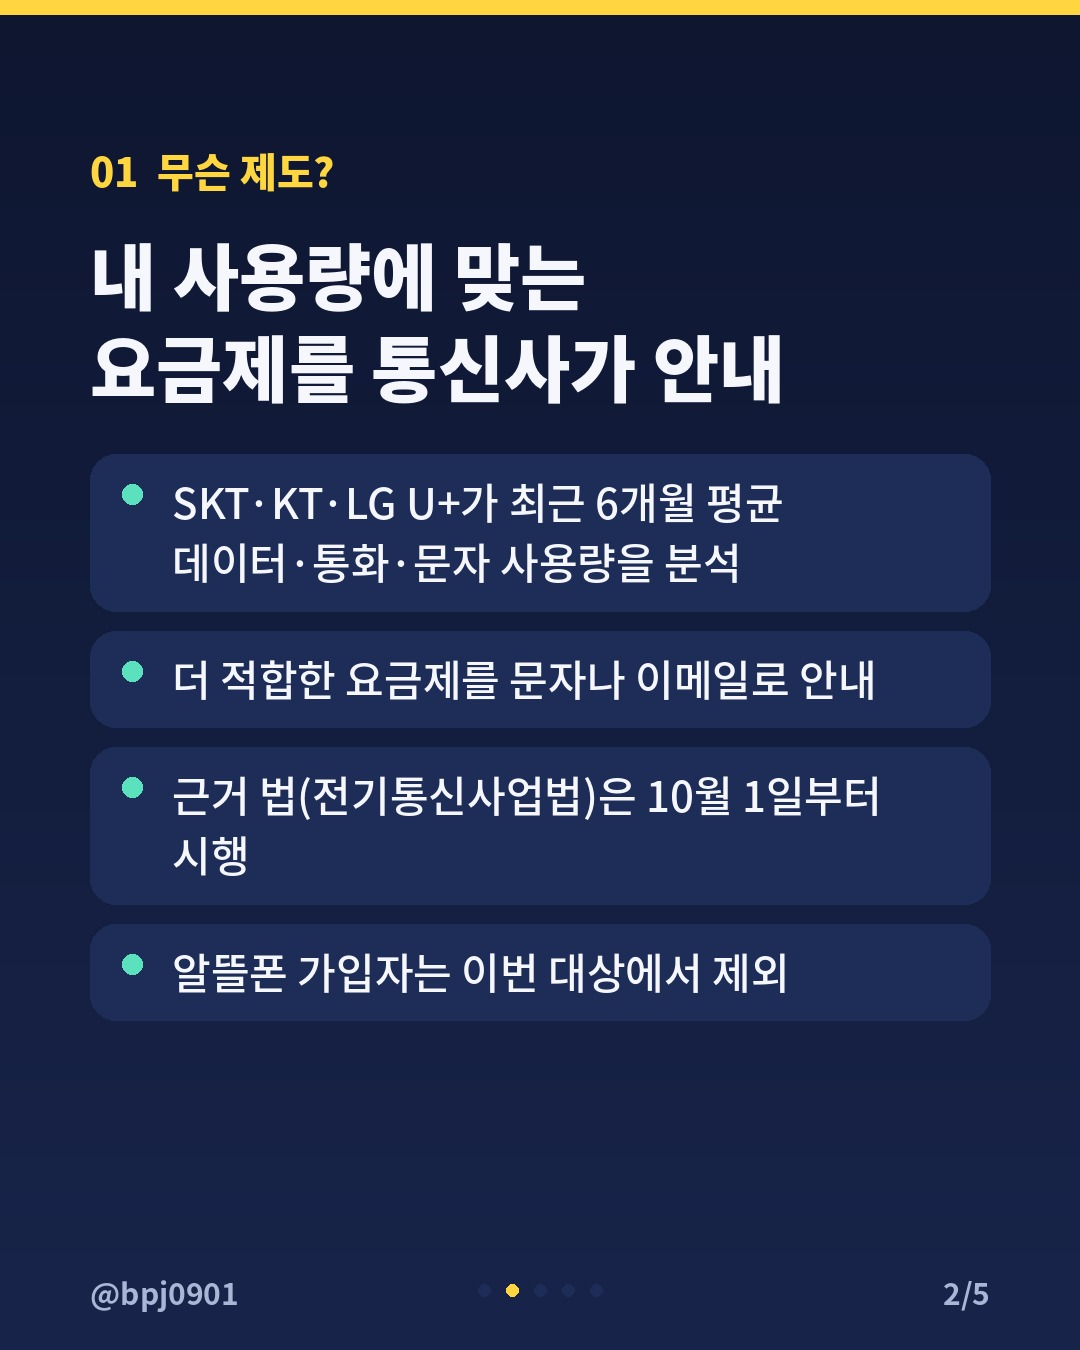
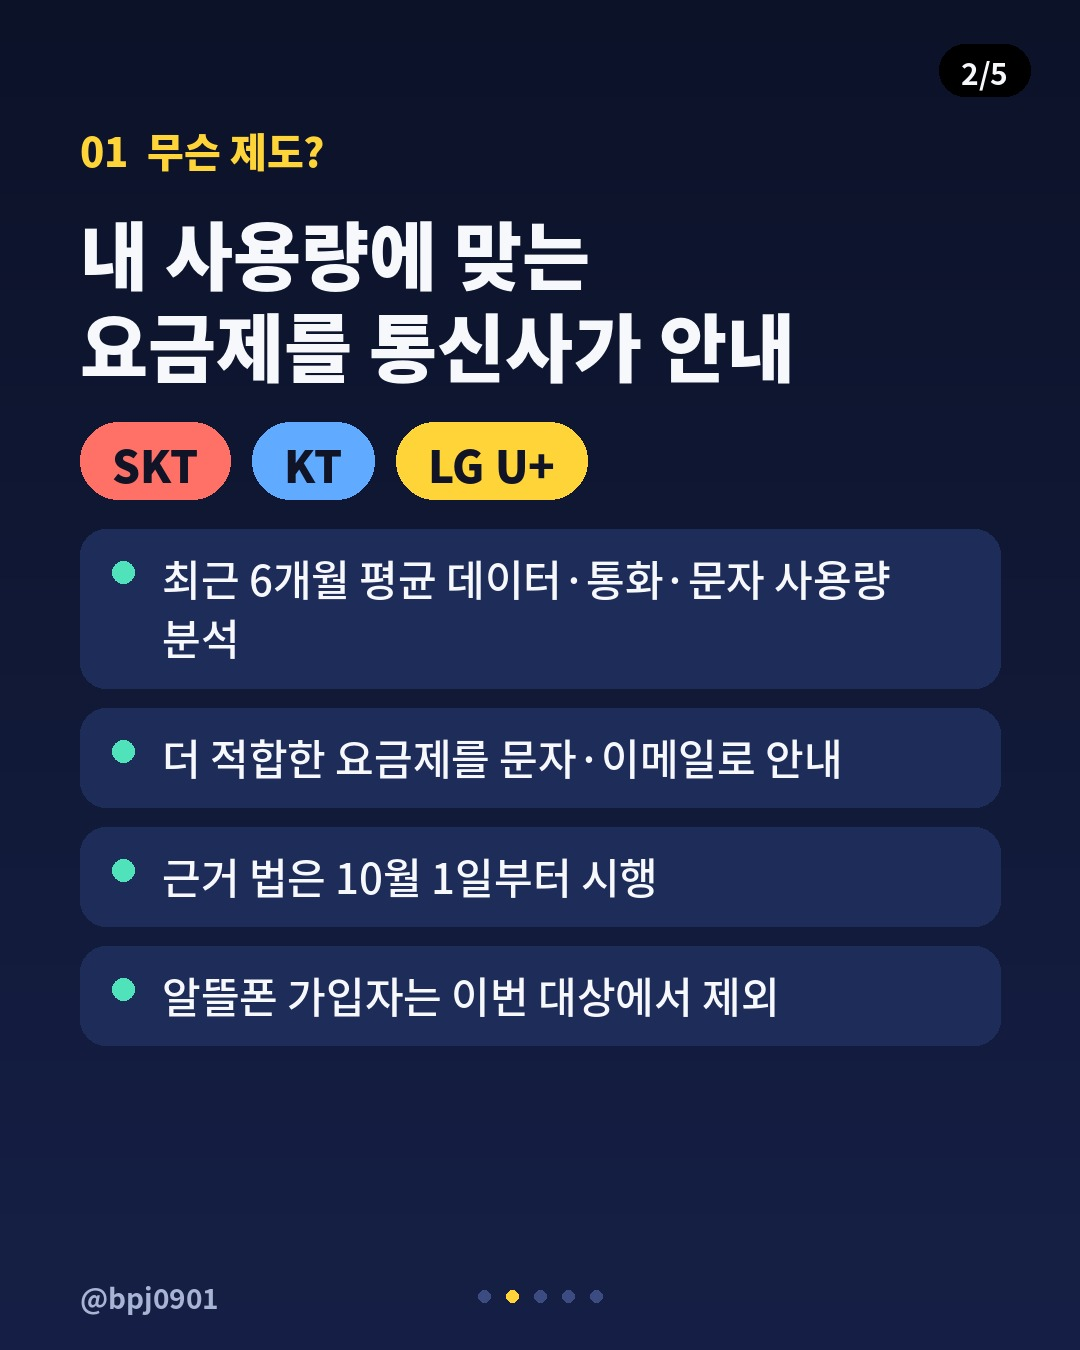
카드뉴스 디자인 개선: 표지 일러스트, 통신사 배지, 페이지 번호
Claude-Session: https://claude.ai/code/session_01VQQ9ZYNrZeGaHthLbSRM4d

diff --git a/tools/render.py b/tools/render.py
@@ -1,144 +1,279 @@
-"""카드뉴스 렌더러: content.json -> 1080x1350 JPG 여러 장.
+"""카드뉴스 렌더러 v2: content.json -> 1080x1350 JPG.
 사용법: python render.py content.json out_dir
+
+슬라이드 type:
+  cover     : 상단 일러스트(휴대폰+문자) + 하단 태그·큰 제목
+  list      : 라벨·제목 + 항목 카드 (badges 있으면 통신사 배지 줄 추가)
+  timeline  : 라벨·제목 + 세로 타임라인 (steps: [[날짜, 설명], ...])
+  compare   : 라벨·제목 + 전후 금액 비교 (before/after/save)
+  checklist : 라벨·제목 + 체크 항목
 """
 import json, sys, os
-from PIL import Image, ImageDraw, ImageFont
+from PIL import Image, ImageDraw, ImageFont, ImageFilter
 
 W, H = 1080, 1350
-M = 90  # 좌우 여백
+M = 80
 FD = "/usr/share/fonts/opentype/noto/"
-
 C = {
-    "bg": (14, 22, 48), "bg2": (24, 36, 74), "text": (245, 247, 252),
-    "sub": (170, 182, 214), "accent": (255, 214, 64), "accent2": (92, 225, 190),
-    "card": (30, 44, 88), "warn": (255, 120, 110),
+    "bg": (12, 18, 40), "bg2": (22, 32, 70), "text": (246, 248, 252), "sub": (168, 180, 212),
+    "accent": (255, 212, 56), "mint": (80, 226, 186), "coral": (255, 112, 102), "sky": (96, 170, 255),
+    "card": (30, 44, 90), "tagred": (232, 52, 60),
 }
+BADGE_COLORS = [C["coral"], C["sky"], C["accent"]]
 
 
 def font(weight, size):
     files = {"black": "NotoSansCJK-Black.ttc", "bold": "NotoSansCJK-Bold.ttc",
              "medium": "NotoSansCJK-Medium.ttc", "regular": "NotoSansCJK-Regular.ttc"}
-    path = FD + files[weight]
     for i in range(6):
-        f = ImageFont.truetype(path, size, index=i)
+        f = ImageFont.truetype(FD + files[weight], size, index=i)
         if "KR" in f.getname()[0]:
             return f
-    return ImageFont.truetype(path, size)
+    return ImageFont.truetype(FD + files[weight], size)
 
 
-def wrap(draw, text, f, maxw):
-    lines = []
+def wrap(d, text, f, maxw):
+    out = []
     for para in text.split("\n"):
         line = ""
-        for word in para.split(" "):
-            test = (line + " " + word).strip()
-            if draw.textlength(test, font=f) <= maxw:
-                line = test
+        for w in para.split(" "):
+            t = (line + " " + w).strip()
+            if d.textlength(t, font=f) <= maxw:
+                line = t
             else:
                 if line:
-                    lines.append(line)
-                # 단어 하나가 너무 길면 글자 단위로 자름
-                while draw.textlength(word, font=f) > maxw:
-                    cut = len(word)
-                    while draw.textlength(word[:cut], font=f) > maxw:
-                        cut -= 1
-                    lines.append(word[:cut]); word = word[cut:]
-                line = word
-        lines.append(line)
-    return lines
+                    out.append(line)
+                line = w
+        out.append(line)
+    return out
 
 
-def text_block(draw, xy, text, f, fill, maxw, gap=1.35):
-    x, y = xy
-    for ln in wrap(draw, text, f, maxw):
-        draw.text((x, y), ln, font=f, fill=fill)
+def text_block(d, x, y, text, f, fill, maxw, gap=1.3):
+    for ln in wrap(d, text, f, maxw):
+        d.text((x, y), ln, font=f, fill=fill)
         y += int(f.size * gap)
     return y
 
 
-def base(i, n, brand):
-    img = Image.new("RGB", (W, H), C["bg"])
+def gradient(img, top, bottom, y0=0, y1=H):
     d = ImageDraw.Draw(img)
-    # 은은한 세로 그라데이션
-    for yy in range(H):
-        t = yy / H
-        col = tuple(int(C["bg"][k] * (1 - t) + C["bg2"][k] * t) for k in range(3))
-        d.line([(0, yy), (W, yy)], fill=col)
-    # 상단 바
-    d.rectangle([0, 0, W, 14], fill=C["accent"])
-    # 하단: 브랜드 + 페이지
-    fb = font("bold", 30)
-    d.text((M, H - 80), brand, font=fb, fill=C["sub"])
-    pg = f"{i}/{n}"
-    d.text((W - M - d.textlength(pg, font=fb), H - 80), pg, font=fb, fill=C["sub"])
-    # 페이지 점
-    for k in range(n):
-        cx = W // 2 - (n - 1) * 14 + k * 28
-        d.ellipse([cx - 6, H - 66, cx + 6, H - 54], fill=C["accent"] if k == i - 1 else C["card"])
+    for y in range(y0, y1):
+        t = (y - y0) / max(1, y1 - y0)
+        d.line([(0, y), (W, y)], fill=tuple(int(top[k] * (1 - t) + bottom[k] * t) for k in range(3)))
+
+
+def glow(img, cx, cy, r, color, alpha=120):
+    layer = Image.new("RGBA", img.size, (0, 0, 0, 0))
+    ImageDraw.Draw(layer).ellipse([cx - r, cy - r, cx + r, cy + r], fill=color + (alpha,))
+    layer = layer.filter(ImageFilter.GaussianBlur(r // 2))
+    img.paste(layer, (0, 0), layer)
+
+
+def pill(d, x, y, text, f, bg, fg, padx=26, h=None, anchor_right=False):
+    tw = d.textlength(text, font=f)
+    h = h or int(f.size * 1.75)
+    w = tw + padx * 2
+    if anchor_right:
+        x = x - w
+    d.rounded_rectangle([x, y, x + w, y + h], h // 2, fill=bg)
+    d.text((x + padx, y + (h - f.size) / 2 - f.size * 0.18), text, font=f, fill=fg)
+    return x + w
+
+
+def frame(i, n, brand):
+    img = Image.new("RGB", (W, H))
+    gradient(img, C["bg"], C["bg2"])
+    d = ImageDraw.Draw(img)
+    # 페이지 표시 (참고 이미지처럼 우측 상단 둥근 배지)
+    pill(d, W - 50, 44, f"{i}/{n}", font("bold", 30), (0, 0, 0), C["text"], padx=22, anchor_right=True)
+    footer(d, i, n, brand)
     return img, d
 
 
+def footer(d, i, n, brand):
+    d.text((M, H - 74), brand, font=font("bold", 28), fill=C["sub"])
+    for k in range(n):
+        cx = W // 2 - (n - 1) * 14 + k * 28
+        d.ellipse([cx - 6, H - 60, cx + 6, H - 48], fill=C["accent"] if k == i - 1 else (60, 76, 130))
+
+
+def header(d, s, y=120):
+    d.text((M, y), s.get("label", ""), font=font("black", 40), fill=C["accent"])
+    return text_block(d, M, y + 78, s["title"], font("black", 74), C["text"], W - 2 * M, 1.25) + 40
+
+
+def draw_phone(img, cx, top, s):
+    """원본 일러스트: 휴대폰 화면 속 통신사 안내 문자."""
+    d = ImageDraw.Draw(img)
+    pw, ph = 430, 640
+    x0, y0 = cx - pw // 2, top
+    glow(img, cx, top + ph // 2, 330, C["sky"], 90)
+    glow(img, cx + 160, top + 140, 180, C["accent"], 70)
+    d = ImageDraw.Draw(img)
+    d.rounded_rectangle([x0, y0, x0 + pw, y0 + ph], 64, fill=(8, 10, 20))
+    d.rounded_rectangle([x0 + 14, y0 + 14, x0 + pw - 14, y0 + ph - 14], 52, fill=(236, 240, 248))
+    d.rounded_rectangle([cx - 60, y0 + 30, cx + 60, y0 + 62], 16, fill=(8, 10, 20))  # 카메라 섬
+    # 메시지 앱 상단
+    d.text((x0 + 50, y0 + 96), "‹  통신사 고객센터", font=font("bold", 30), fill=(40, 48, 70))
+    d.line([(x0 + 30, y0 + 150), (x0 + pw - 30, y0 + 150)], fill=(205, 212, 226), width=2)
+    # 말풍선
+    bx0, by0 = x0 + 40, y0 + 185
+    d.rounded_rectangle([bx0, by0, x0 + pw - 50, by0 + 250], 34, fill=(255, 255, 255))
+    d.text((bx0 + 28, by0 + 26), "[요금제 안내]", font=font("black", 30), fill=C["tagred"])
+    text_block(d, bx0 + 28, by0 + 76, s.get("sms", ""), font("medium", 27), (40, 48, 70), pw - 150, 1.4)
+    # 절약 강조 말풍선
+    sx0, sy0 = x0 + 70, by0 + 280
+    d.rounded_rectangle([sx0, sy0, x0 + pw - 40, sy0 + 120], 34, fill=C["accent"])
+    d.text((sx0 + 30, sy0 + 22), s.get("save_bubble", ""), font=font("black", 48), fill=(20, 24, 40))
+
+
+def badges_row(d, x, y, names, size=44, center=False):
+    f = font("black", size)
+    widths = [d.textlength(nm, font=f) + 64 for nm in names]
+    total = sum(widths) + 22 * (len(names) - 1)
+    if center:
+        x = (W - total) // 2
+    for nm, col in zip(names, BADGE_COLORS):
+        x = pill(d, x, y, nm, f, col, (16, 20, 38), padx=32) + 22
+    return y + int(size * 1.75)
+
+
 def render_cover(s, i, n, brand):
-    img, d = base(i, n, brand)
+    img, d = frame(i, n, brand)
+    draw_phone(img, W // 2 + 150, 150, s)
+    d = ImageDraw.Draw(img)
+    # 왼쪽 위 통신사 배지 세로 배치
+    f = font("black", 44)
     y = 230
-    tag = s.get("tag", "")
-    if tag:
-        ft = font("bold", 36)
-        tw = d.textlength(tag, font=ft)
-        d.rounded_rectangle([M, y, M + tw + 48, y + 66], 33, fill=C["accent"])
-        d.text((M + 24, y + 9), tag, font=ft, fill=C["bg"])
-        y += 120
-    y = text_block(d, (M, y), s["title"], font("black", 92), C["text"], W - 2 * M, 1.25)
-    y += 40
-    d.rectangle([M, y, M + 120, y + 10], fill=C["accent"])
-    y += 60
-    text_block(d, (M, y), s.get("subtitle", ""), font("medium", 44), C["sub"], W - 2 * M, 1.45)
-    if s.get("footer"):
-        text_block(d, (M, H - 230), s["footer"], font("bold", 38), C["accent2"], W - 2 * M)
+    for nm, col in zip(s.get("badges", []), BADGE_COLORS):
+        pill(d, M, y, nm, f, col, (16, 20, 38), padx=34)
+        y += 104
+    # 하단 어둡게 (제목 가독성)
+    shade = Image.new("RGBA", (W, H), (0, 0, 0, 0))
+    sd = ImageDraw.Draw(shade)
+    for yy in range(760, H):
+        a = min(235, int((yy - 760) / 200 * 235))
+        sd.line([(0, yy), (W, yy)], fill=C["bg"] + (a,))
+    img.paste(shade, (0, 0), shade)
+    d = ImageDraw.Draw(img)
+    # 태그 (참고 이미지의 빨간 태그 + 카테고리)
+    ty = 880
+    nx = pill(d, M, ty, s.get("tag", "이슈"), font("black", 32), C["tagred"], (255, 255, 255), padx=20)
+    d.text((nx + 16, ty + 9), s.get("tag2", ""), font=font("bold", 32), fill=C["text"])
+    text_block(d, M, ty + 84, s["title"], font("black", 86), C["text"], W - 2 * M, 1.22)
+    footer(d, i, n, brand)
     return img
 
 
-def render_body(s, i, n, brand):
-    img, d = base(i, n, brand)
-    y = 140
-    fn = font("black", 40)
-    d.text((M, y), s.get("label", f"POINT {i-1}"), font=fn, fill=C["accent"])
-    y += 80
-    y = text_block(d, (M, y), s["title"], font("black", 72), C["text"], W - 2 * M, 1.28)
-    y += 50
-    fbody = font("medium", 42)
-    fbold = font("bold", 42)
-    for item in s.get("items", []):
-        # 카드 박스
-        lines = wrap(d, item, fbody, W - 2 * M - 110)
-        h = int(len(lines) * 42 * 1.45) + 36
-        if y + h > H - 200:
-            raise SystemExit(f'slide {i}: 항목이 공간을 넘침 -> 내용 줄이기')
+def render_list(s, i, n, brand):
+    img, d = frame(i, n, brand)
+    y = header(d, s)
+    if s.get("badges"):
+        y = badges_row(d, M, y, s["badges"]) + 30
+    fb = font("medium", 42)
+    for item in s["items"]:
+        lines = wrap(d, item, fb, W - 2 * M - 110)
+        h = int(len(lines) * 42 * 1.42) + 40
+        if y + h > H - 150:
+            raise SystemExit(f"{i}번 카드: 내용이 넘칩니다")
         d.rounded_rectangle([M, y, W - M, y + h], 26, fill=C["card"])
-        d.ellipse([M + 32, y + 30, M + 52, y + 50], fill=C["accent2"])
+        d.ellipse([M + 32, y + 32, M + 54, y + 54], fill=C["mint"])
+        yy = y + 18
+        for ln in lines:
+            d.text((M + 82, yy), ln, font=fb, fill=C["text"])
+            yy += int(42 * 1.42)
+        y += h + 20
+    if s.get("note"):
+        text_block(d, M, H - 170, s["note"], font("regular", 28), C["sub"], W - 2 * M)
+    return img
+
+
+def render_timeline(s, i, n, brand):
+    img, d = frame(i, n, brand)
+    y = header(d, s) + 10
+    x = M + 30
+    steps = s["steps"]
+    gap = 175
+    d.line([(x, y + 20), (x, y + 20 + gap * (len(steps) - 1))], fill=C["card"], width=10)
+    for k, (when, what) in enumerate(steps):
+        cy = y + 20 + gap * k
+        col = [C["mint"], C["accent"], C["coral"]][k % 3]
+        d.ellipse([x - 26, cy - 26, x + 26, cy + 26], fill=col)
+        d.text((x + 60, cy - 34), when, font=font("black", 46), fill=col)
+        text_block(d, x + 60, cy + 26, what, font("medium", 38), C["text"], W - x - 60 - M)
+    if s.get("note"):
+        text_block(d, M, H - 170, s["note"], font("regular", 28), C["sub"], W - 2 * M)
+    return img
+
+
+def render_compare(s, i, n, brand):
+    img, d = frame(i, n, brand)
+    y = header(d, s) + 10
+    bw = (W - 2 * M - 40) // 2
+    for k, (lab, amt, col) in enumerate([(s["before"][0], s["before"][1], C["card"]),
+                                          (s["after"][0], s["after"][1], C["mint"])]):
+        x0 = M + k * (bw + 40)
+        d.rounded_rectangle([x0, y, x0 + bw, y + 260], 30, fill=col)
+        fg = C["text"] if k == 0 else (16, 20, 38)
+        d.text((x0 + 36, y + 34), lab, font=font("bold", 36), fill=fg)
+        d.text((x0 + 36, y + 110), amt, font=font("black", 84), fill=fg)
+    # 화살표
+    ax = M + bw + 20
+    d.polygon([(ax - 26, y + 110), (ax + 26, y + 130), (ax - 26, y + 150)], fill=C["accent"])
+    y += 300
+    d.rounded_rectangle([M, y, W - M, y + 150], 30, fill=C["accent"])
+    st = s["save"]
+    f = font("black", 64)
+    d.text(((W - d.textlength(st, font=f)) / 2, y + 30), st, font=f, fill=(16, 20, 38))
+    y += 200
+    text_block(d, M, y, s.get("highlight", ""), font("bold", 40), C["text"], W - 2 * M, 1.42)
+    if s.get("note"):
+        text_block(d, M, H - 170, s["note"], font("regular", 28), C["sub"], W - 2 * M)
+    return img
+
+
+def render_checklist(s, i, n, brand):
+    img, d = frame(i, n, brand)
+    y = header(d, s)
+    fb = font("medium", 40)
+    for item in s["items"]:
+        lines = wrap(d, item, fb, W - 2 * M - 120)
+        h = int(len(lines) * 40 * 1.42) + 36
+        d.rounded_rectangle([M, y, W - M, y + h], 24, fill=C["card"])
+        bx, by = M + 28, y + h // 2 - 24
+        d.rounded_rectangle([bx, by, bx + 48, by + 48], 12, fill=C["mint"])
+        d.line([(bx + 11, by + 25), (bx + 21, by + 35), (bx + 38, by + 14)], fill=(16, 20, 38), width=7)
         yy = y + 16
         for ln in lines:
-            d.text((M + 82, yy), ln, font=fbody, fill=C["text"])
-            yy += int(42 * 1.45)
-        y += h + 20
-    if s.get("highlight"):
-        y += 10
-        text_block(d, (M, y), s["highlight"], fbold, C["accent"], W - 2 * M, 1.4)
-    if s.get("note"):
-        text_block(d, (M, H - 200), s["note"], font("regular", 28), C["sub"], W - 2 * M, 1.4)
+            d.text((M + 100, yy), ln, font=fb, fill=C["text"])
+            yy += int(40 * 1.42)
+        y += h + 18
+    if s.get("cta"):
+        y += 12
+        d.rounded_rectangle([M, y, W - M, y + 110], 55, fill=C["accent"])
+        f = font("black", 44)
+        d.text(((W - d.textlength(s["cta"], font=f)) / 2, y + 22), s["cta"], font=f, fill=(16, 20, 38))
+        if y + 110 > H - 100:
+            raise SystemExit(f"{i}번 카드: 내용이 넘칩니다")
     return img
+
+
+R = {"cover": render_cover, "list": render_list, "timeline": render_timeline,
+     "compare": render_compare, "checklist": render_checklist}
 
 
 def main(cfg_path, out):
     cfg = json.load(open(cfg_path, encoding="utf-8"))
     os.makedirs(out, exist_ok=True)
-    slides = cfg["slides"]; n = len(slides); paths = []
+    slides = cfg["slides"]
+    for f in os.listdir(out):
+        if f.startswith("card_") and f.endswith(".jpg"):
+            os.remove(os.path.join(out, f))
     for i, s in enumerate(slides, 1):
-        img = render_cover(s, i, n, cfg["brand"]) if s.get("type") == "cover" else render_body(s, i, n, cfg["brand"])
+        img = R[s.get("type", "list")](s, i, len(slides), cfg["brand"])
         p = os.path.join(out, f"card_{i:02d}.jpg")
         img.save(p, "JPEG", quality=92)
-        paths.append(p)
-    print("\n".join(paths))
+        print(p)
 
 
 if __name__ == "__main__":
